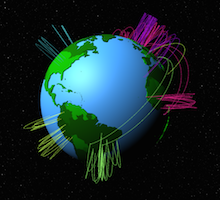
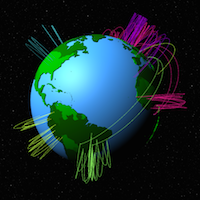
fix bugs on camera angle buttons

diff --git a/Views/ControlPanel/ControlPanelGlobeView.js b/Views/ControlPanel/ControlPanelGlobeView.js
@@ -89,6 +89,7 @@ Application.ControlPanelRootView = Backbone.View.extend({
     },
     addCameraSwitcherView: function() {
 
+        console.log("addCameraSwitcherView");
         if (this.cameraSwitcherView) this.cameraSwitcherView.destroy();
 
         this.cameraSwitcherView = new Application.CameraSwitcherView();

diff --git a/Views/ControlPanel/CameraSwitcherView.js b/Views/ControlPanel/CameraSwitcherView.js
@@ -93,6 +93,7 @@ Application.AngleSwitcherPanel = Backbone.View.extend({
           }
         ];
         this.cameraAngleView = new Application.CameraAngleSet(obj);
+        this.$el.empty();
         this.$el.append(this.cameraAngleView.$el);
 
     },
